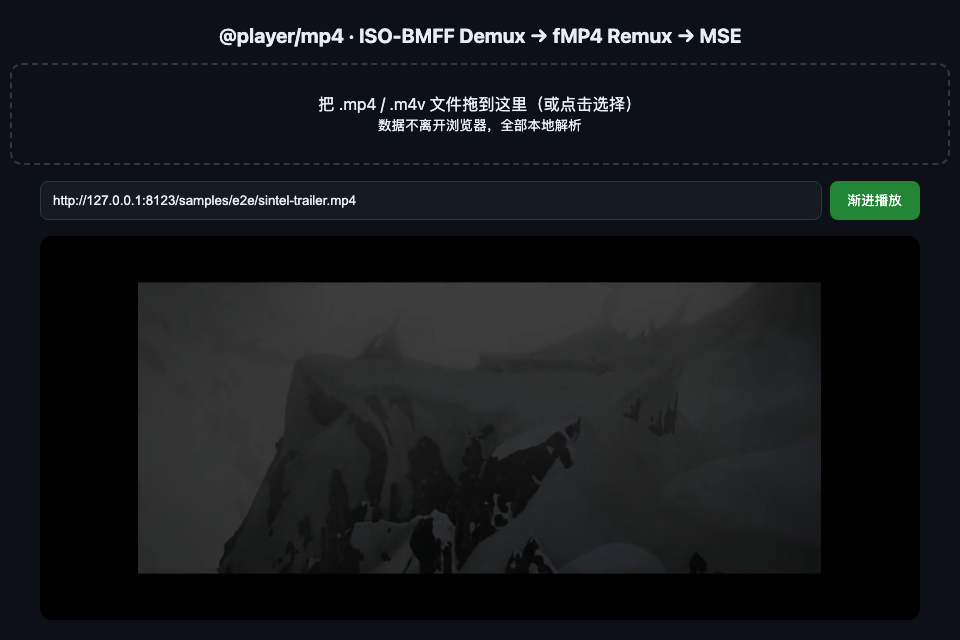
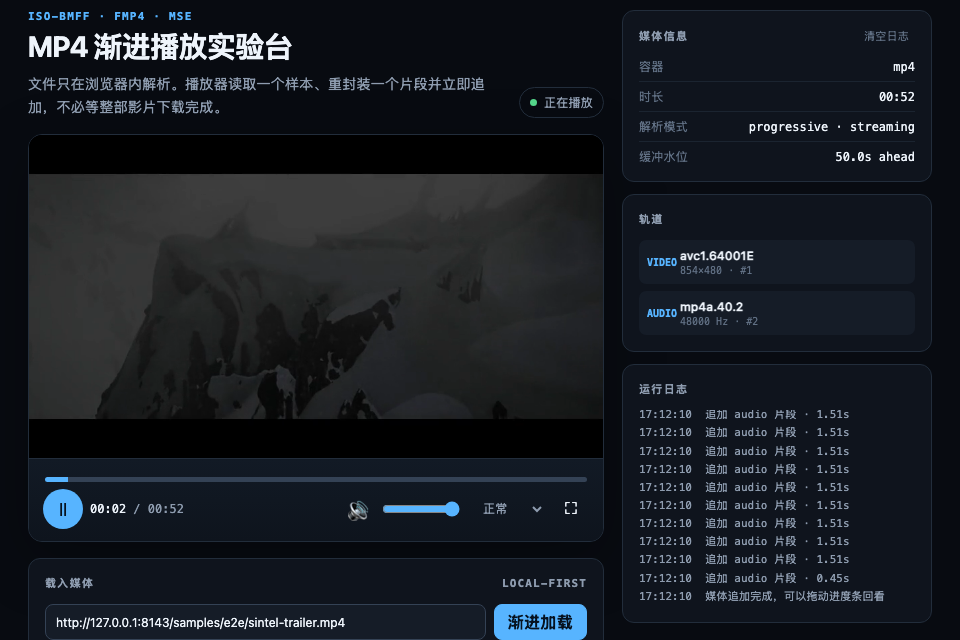
fix: initialize MP4 MSE tracks before appending init

diff --git a/core/__tests__/core-video-renderer-dom.test.js b/core/__tests__/core-video-renderer-dom.test.js
@@ -403,3 +403,33 @@ test('destroy：释放 GL 资源、清空 ctx、移除全部监听（幂等）',
     assert.equal(emitted, 0, 'destroy 后监听已清空');
   });
 });
+
+test('异常分支：2D context 获取失败、WebGL 降级后的 2D 绘制失败与 GL 清理异常均安全返回', async () => {
+  await withDocument(() => {
+    const brokenCanvas = makeCanvas({ ctx: null });
+    brokenCanvas.getContext = (kind) => {
+      if (kind === '2d') throw new Error('context 失败');
+      return null;
+    };
+    assert.throws(() => new VideoFrameRenderer(brokenCanvas, { mode: '2d' }));
+
+    const gl = new FakeGL({ throwOn: 'texImage2D' });
+    const r = new VideoFrameRenderer(makeCanvas({ gl, ctx: new Fake2D({ throwOnDraw: true }) }));
+    assert.equal(r.draw({ width: 16, height: 9 }), false);
+
+    const cleanupGl = new FakeGL();
+    const cleanup = new VideoFrameRenderer(makeCanvas({ gl: cleanupGl, ctx: new Fake2D() }));
+    cleanupGl.deleteTexture = () => { throw new Error('cleanup 失败'); };
+    assert.doesNotThrow(() => cleanup.destroy());
+  });
+});
+
+test('WebGL cover：视频更窄时走 scaleY 分支', async () => {
+  await withDocument(() => {
+    const gl = new FakeGL();
+    const r = new VideoFrameRenderer(makeCanvas({ gl, ctx: new Fake2D(), width: 100, height: 100 }), { fit: 'cover' });
+    assert.equal(r.draw({ width: 50, height: 100 }), true);
+    const uv = gl.uniforms.at(-1);
+    assert.ok(uv[2] > 1 && uv[3] === 0 && uv[4] < 0, `cover 窄视频应扩大垂直采样范围: ${JSON.stringify(uv)}`);
+  });
+});

diff --git a/core/__tests__/clock-stats.test.js b/core/__tests__/clock-stats.test.js
@@ -100,3 +100,39 @@ test('Stats 计数与 fps EMA（注入时钟）', () => {
   stats.reset();
   assert.equal(stats.snapshot().bytesAppended, 0);
 });
+
+test('Stats：demux 计数、decodeError 事件与 Date.now 时钟回退', async () => {
+  const detail = { code: 'DECODE_ERROR', track: 'video' };
+  const seen = [];
+  const realDateNow = Date.now;
+  await withGlobal('performance', undefined, () => {
+    Date.now = () => 1234;
+    try {
+      const stats = new Stats();
+      assert.equal(stats._now(), 1.234, '无 performance 时应回退 Date.now');
+      stats.on('decodeError', (value) => seen.push(value));
+      stats.markDemuxed(4096);
+      stats.markDecodeError(detail);
+      assert.equal(stats.snapshot().bytesDemuxed, 4096);
+      assert.deepEqual(seen, [detail]);
+      assert.equal(stats.snapshot().decodeErrors, 1);
+    } finally {
+      Date.now = realDateNow;
+    }
+  });
+  await withGlobal('performance', { now: () => 2000 }, () => {
+    const stats = new Stats();
+    assert.equal(stats._now(), 2, 'performance.now 应按秒换算');
+  });
+});
+
+async function withGlobal(key, value, fn) {
+  const descriptor = Object.getOwnPropertyDescriptor(globalThis, key);
+  Object.defineProperty(globalThis, key, { value, configurable: true, writable: true });
+  try {
+    return await fn();
+  } finally {
+    if (descriptor) Object.defineProperty(globalThis, key, descriptor);
+    else delete globalThis[key];
+  }
+}

diff --git a/hls/__tests__/llhls-utils.test.js b/hls/__tests__/llhls-utils.test.js
@@ -9,6 +9,9 @@ import {
   parseByteRange,
   parseAttributes,
   splitCodecs,
+  computeResumeIndexByTimeUs,
+  enableLog,
+  logger,
   EwmaBandwidthEstimator,
 } from '../src/index.js';
 
@@ -106,4 +109,30 @@ test('EWMA 带宽估计：样本充足后向真实带宽收敛', () => {
     est.sample(625000, 1000); // 625000 B / 1000 ms ≈ 5 Mbps
   }
   assert.ok(est.bandwidth > 4.2e6 && est.bandwidth < 5.8e6, `收敛失败: ${est.bandwidth}`);
+});
+
+test('utils：日志开关仅在启用时输出，空时间列表返回 0', () => {
+  const calls = [];
+  const original = { log: console.log, warn: console.warn, error: console.error };
+  console.log = (...args) => calls.push(['log', ...args]);
+  console.warn = (...args) => calls.push(['warn', ...args]);
+  console.error = (...args) => calls.push(['error', ...args]);
+  try {
+    const log = logger('test');
+    enableLog(false);
+    log.info('silent');
+    assert.deepEqual(calls, []);
+    enableLog(true);
+    log.info('hello');
+    log.warn('careful');
+    log.error('broken');
+    assert.deepEqual(calls.map(([level]) => level), ['log', 'warn', 'error']);
+    assert.equal(calls[0][1], '[hls:test]');
+    assert.equal(computeResumeIndexByTimeUs([], 0), 0);
+  } finally {
+    enableLog(false);
+    console.log = original.log;
+    console.warn = original.warn;
+    console.error = original.error;
+  }
 });

diff --git a/mp4/demo/index.html b/mp4/demo/index.html
@@ -279,9 +279,14 @@ async function loadSource(source, fileName = '') {
     const remuxer = new Fmp4Remuxer();
     const mediaTracks = info.tracks.filter((track) => track.type === 'video' || track.type === 'audio');
     const pending = new Map(mediaTracks.map((track) => [track.id, { track, samples: [], durationUs: 0 }]));
+    // Chrome MSE 要求同一 MediaSource 的多条轨先全部注册，再追加 init segment。
+    // 若先 append 视频 init 再创建音频 SourceBuffer，会在部分版本触发 QuotaExceededError(22)。
     for (const track of mediaTracks) {
       const mime = `${track.type === 'audio' ? 'audio' : 'video'}/mp4; codecs="${track.codec}"`;
-      await mse.addTrack(`track${track.id}`, mime); await mse.append(`track${track.id}`, remuxer.createInitSegment(track));
+      await mse.addTrack(`track${track.id}`, mime);
+    }
+    for (const track of mediaTracks) {
+      await mse.append(`track${track.id}`, remuxer.createInitSegment(track));
     }
     $('mode').textContent = `${info.fragmented ? 'fragmented' : 'progressive'} · streaming`;
     setStatus('正在缓冲', 'loading');

diff --git a/core/__tests__/core-mse-helper-units.test.js b/core/__tests__/core-mse-helper-units.test.js
@@ -632,3 +632,18 @@ test('mseMonotonicTime：返回以秒为单位的数值', () => {
 test('Node 无 MediaSource 时 mseIsTypeSupported 恒 false（helper 兜底语义一致）', () => {
   assert.equal(mseIsTypeSupported('video/mp4; codecs="avc1.42E01E"'), false);
 });
+
+test('mseIsTypeSupported：无实例方法时回退构造器静态探测', () => {
+  const saved = Object.getOwnPropertyDescriptor(globalThis, 'MediaSource');
+  class StaticMediaSource {
+    static isTypeSupported(mime) { return mime === 'video/mp4'; }
+  }
+  try {
+    Object.defineProperty(globalThis, 'MediaSource', { value: StaticMediaSource, configurable: true });
+    assert.equal(mseIsTypeSupported('video/mp4'), true);
+    assert.equal(mseIsTypeSupported('audio/webm'), false);
+  } finally {
+    if (saved) Object.defineProperty(globalThis, 'MediaSource', saved);
+    else delete globalThis.MediaSource;
+  }
+});

diff --git a/docs/review/iteration-backlog.md b/docs/review/iteration-backlog.md
@@ -186,6 +186,8 @@
   3. 已 done 的轨二次 `for await` 返回 0 样本且不重发（相对安全）。
   与 mkv/wav（`#endEmitted` 单次 + 全可读轨扫完才发）、flac 的语义均不同。**属裁决表 D4**（`mkv-base-class-alignment.md:165`：「以契约字面『全部轨 EOS』为目标…**基类收敛另立跨模块议题**」）→ **需 owner/captain 裁决，禁止单模块擅改**。本波仅取证登记，未改代码。
 
+| 109 | MP4 双轨 MSE 初始化顺序修复 + 浏览器真机回归 | Chrome 真机探针复现：MP4 demo 先创建视频 SourceBuffer 并追加 init、再创建音频 SourceBuffer 会触发 `QuotaExceededError(22)`；修复 `mp4/demo/index.html` 为先注册全部 video/audio SourceBuffer，再统一追加 init segment。同步修正 `scripts/e2e/demo-smoke.mjs` 的 MP4 按钮选择器（`#playUrl`→`#loadUrl`）。验证：core、MP4、HLS 真实 Chrome smoke 全 PASS；MP4 `readyState=4`、`currentTime≈11.7s` 持续推进，HLS 驱动 PASS；全仓 2901/2901、lint 541 文件、check 16/16、双契约审计 PASS。 | 本波 |
+
 > 注：候选池未达标项以 `node scripts/audit/iteration-scan.mjs` 实时输出为准（本表为快照，可能滞后）。
 | 67 | npm 首发pure-webcodecs-player@0.1.0（owner 指令「先发布一版npm」） | package.json：exports 16 子路径（"."=core、./mp4 等 15 模块）、files 仅各模块 src+README+LICENSE、sideEffects=false；新增 MIT LICENSE（此前无许可证）；README §使用方式 2 加 npm 安装段。验证：npmjs 发布成功（tar 412.8kB/171 文件），临时目录真实 `npm i` 后 bare import 与 ./mp4、./wav 子路径导入全通；全仓 1144/1144 绿 | `52df096` |
 | 68 | README 精简（owner 指令） | 删「模块状态表」「交付标准」「质量门禁与工程化」三块内部治理内容（非使用者视角）；保留目标/效果演示/快速开始/使用方式/统一管线。结合第六十七波：npm@0.1.0 标注 + CDN 直引断链修复 + §3 包名 import | `8dd57c9` |
